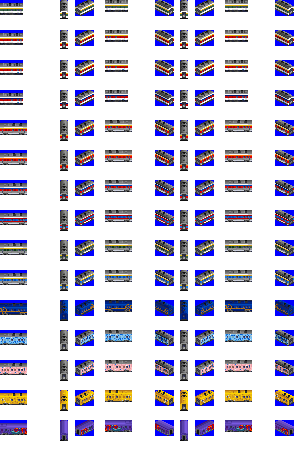
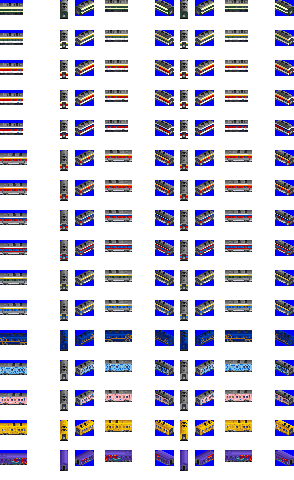
Add: Generator car - old tongil livery, closes #233

diff --git a/docs/download_page/english.html b/docs/download_page/english.html
@@ -300,7 +300,7 @@
         <td class="introduction">1927</td>
     </tr>
     <tr data-veh_id="GENERATOR_CAR">
-        <td class="refit"><div><img src="./_static/GENERATOR_CAR_TONGIL.png" alt="Generator car"><br /><img src="./_static/GENERATOR_CAR_MUGUNGHWA_YELLOW_RED.png" alt="Generator car"><br /><img src="./_static/GENERATOR_CAR_MUGUNGHWA_YELLOW_RED_K.png" alt="Generator car"><br /><img src="./_static/GENERATOR_CAR_MUGUNGHWA_BLUE_RED.png" alt="Generator car"><br /><img src="./_static/GENERATOR_CAR_LONG_YELLOW_RED.png" alt="Generator car"><br /><img src="./_static/GENERATOR_CAR_LONG_ORANGE_RED.png" alt="Generator car"><br /><img src="./_static/GENERATOR_CAR_LONG_MUGUNGHWA_BLUE_RED.png" alt="Generator car"><br /><img src="./_static/GENERATOR_CAR_LONG_SAEMAEUL_BLUE_RED.png" alt="Generator car"><br /><img src="./_static/GENERATOR_CAR_LONG_SAEMAEUL_2.png" alt="Generator car"><br /><img src="./_static/GENERATOR_CAR_LONG_SAEMAEUL_3.png" alt="Generator car"><br /><img src="./_static/GENERATOR_CAR_HAERANG.png" alt="Generator car"><br /><img src="./_static/GENERATOR_CAR_S_TRAIN_1.png" alt="Generator car"><br /><img src="./_static/GENERATOR_CAR_S_TRAIN_2.png" alt="Generator car"><br /><img src="./_static/GENERATOR_CAR_G_TRAIN.png" alt="Generator car"><br /><img src="./_static/GENERATOR_CAR_A_TRAIN.png" alt="Generator car"></div></td>
+        <td class="refit"><div><img src="./_static/GENERATOR_CAR_TONGIL_OLD.png" alt="Generator car"><br /><img src="./_static/GENERATOR_CAR_TONGIL.png" alt="Generator car"><br /><img src="./_static/GENERATOR_CAR_MUGUNGHWA_YELLOW_RED.png" alt="Generator car"><br /><img src="./_static/GENERATOR_CAR_MUGUNGHWA_YELLOW_RED_K.png" alt="Generator car"><br /><img src="./_static/GENERATOR_CAR_MUGUNGHWA_BLUE_RED.png" alt="Generator car"><br /><img src="./_static/GENERATOR_CAR_LONG_YELLOW_RED.png" alt="Generator car"><br /><img src="./_static/GENERATOR_CAR_LONG_ORANGE_RED.png" alt="Generator car"><br /><img src="./_static/GENERATOR_CAR_LONG_MUGUNGHWA_BLUE_RED.png" alt="Generator car"><br /><img src="./_static/GENERATOR_CAR_LONG_SAEMAEUL_BLUE_RED.png" alt="Generator car"><br /><img src="./_static/GENERATOR_CAR_LONG_SAEMAEUL_2.png" alt="Generator car"><br /><img src="./_static/GENERATOR_CAR_LONG_SAEMAEUL_3.png" alt="Generator car"><br /><img src="./_static/GENERATOR_CAR_HAERANG.png" alt="Generator car"><br /><img src="./_static/GENERATOR_CAR_S_TRAIN_1.png" alt="Generator car"><br /><img src="./_static/GENERATOR_CAR_S_TRAIN_2.png" alt="Generator car"><br /><img src="./_static/GENERATOR_CAR_G_TRAIN.png" alt="Generator car"><br /><img src="./_static/GENERATOR_CAR_A_TRAIN.png" alt="Generator car"></div></td>
         <td class="name">Generator car</td>
         <td class="speed">120 km/h</td>
         <td class="speed_designed">120 km/h</td>

diff --git a/docs/download_page/korean.html b/docs/download_page/korean.html
@@ -300,7 +300,7 @@
         <td class="introduction">1927</td>
     </tr>
     <tr data-veh_id="GENERATOR_CAR">
-        <td class="refit"><div><img src="./_static/GENERATOR_CAR_TONGIL.png" alt="발전차"><br /><img src="./_static/GENERATOR_CAR_MUGUNGHWA_YELLOW_RED.png" alt="발전차"><br /><img src="./_static/GENERATOR_CAR_MUGUNGHWA_YELLOW_RED_K.png" alt="발전차"><br /><img src="./_static/GENERATOR_CAR_MUGUNGHWA_BLUE_RED.png" alt="발전차"><br /><img src="./_static/GENERATOR_CAR_LONG_YELLOW_RED.png" alt="발전차"><br /><img src="./_static/GENERATOR_CAR_LONG_ORANGE_RED.png" alt="발전차"><br /><img src="./_static/GENERATOR_CAR_LONG_MUGUNGHWA_BLUE_RED.png" alt="발전차"><br /><img src="./_static/GENERATOR_CAR_LONG_SAEMAEUL_BLUE_RED.png" alt="발전차"><br /><img src="./_static/GENERATOR_CAR_LONG_SAEMAEUL_2.png" alt="발전차"><br /><img src="./_static/GENERATOR_CAR_LONG_SAEMAEUL_3.png" alt="발전차"><br /><img src="./_static/GENERATOR_CAR_HAERANG.png" alt="발전차"><br /><img src="./_static/GENERATOR_CAR_S_TRAIN_1.png" alt="발전차"><br /><img src="./_static/GENERATOR_CAR_S_TRAIN_2.png" alt="발전차"><br /><img src="./_static/GENERATOR_CAR_G_TRAIN.png" alt="발전차"><br /><img src="./_static/GENERATOR_CAR_A_TRAIN.png" alt="발전차"></div></td>
+        <td class="refit"><div><img src="./_static/GENERATOR_CAR_TONGIL_OLD.png" alt="발전차"><br /><img src="./_static/GENERATOR_CAR_TONGIL.png" alt="발전차"><br /><img src="./_static/GENERATOR_CAR_MUGUNGHWA_YELLOW_RED.png" alt="발전차"><br /><img src="./_static/GENERATOR_CAR_MUGUNGHWA_YELLOW_RED_K.png" alt="발전차"><br /><img src="./_static/GENERATOR_CAR_MUGUNGHWA_BLUE_RED.png" alt="발전차"><br /><img src="./_static/GENERATOR_CAR_LONG_YELLOW_RED.png" alt="발전차"><br /><img src="./_static/GENERATOR_CAR_LONG_ORANGE_RED.png" alt="발전차"><br /><img src="./_static/GENERATOR_CAR_LONG_MUGUNGHWA_BLUE_RED.png" alt="발전차"><br /><img src="./_static/GENERATOR_CAR_LONG_SAEMAEUL_BLUE_RED.png" alt="발전차"><br /><img src="./_static/GENERATOR_CAR_LONG_SAEMAEUL_2.png" alt="발전차"><br /><img src="./_static/GENERATOR_CAR_LONG_SAEMAEUL_3.png" alt="발전차"><br /><img src="./_static/GENERATOR_CAR_HAERANG.png" alt="발전차"><br /><img src="./_static/GENERATOR_CAR_S_TRAIN_1.png" alt="발전차"><br /><img src="./_static/GENERATOR_CAR_S_TRAIN_2.png" alt="발전차"><br /><img src="./_static/GENERATOR_CAR_G_TRAIN.png" alt="발전차"><br /><img src="./_static/GENERATOR_CAR_A_TRAIN.png" alt="발전차"></div></td>
         <td class="name">발전차</td>
         <td class="speed">120 km/h</td>
         <td class="speed_designed">120 km/h</td>

diff --git a/docs/download_page/english.md b/docs/download_page/english.md
@@ -300,7 +300,7 @@
         <td class="introduction">1927</td>
     </tr>
     <tr data-veh_id="GENERATOR_CAR">
-        <td class="refit"><div><img src="./_static/GENERATOR_CAR_TONGIL.png" alt="Generator car"><br /><img src="./_static/GENERATOR_CAR_MUGUNGHWA_YELLOW_RED.png" alt="Generator car"><br /><img src="./_static/GENERATOR_CAR_MUGUNGHWA_YELLOW_RED_K.png" alt="Generator car"><br /><img src="./_static/GENERATOR_CAR_MUGUNGHWA_BLUE_RED.png" alt="Generator car"><br /><img src="./_static/GENERATOR_CAR_LONG_YELLOW_RED.png" alt="Generator car"><br /><img src="./_static/GENERATOR_CAR_LONG_ORANGE_RED.png" alt="Generator car"><br /><img src="./_static/GENERATOR_CAR_LONG_MUGUNGHWA_BLUE_RED.png" alt="Generator car"><br /><img src="./_static/GENERATOR_CAR_LONG_SAEMAEUL_BLUE_RED.png" alt="Generator car"><br /><img src="./_static/GENERATOR_CAR_LONG_SAEMAEUL_2.png" alt="Generator car"><br /><img src="./_static/GENERATOR_CAR_LONG_SAEMAEUL_3.png" alt="Generator car"><br /><img src="./_static/GENERATOR_CAR_HAERANG.png" alt="Generator car"><br /><img src="./_static/GENERATOR_CAR_S_TRAIN_1.png" alt="Generator car"><br /><img src="./_static/GENERATOR_CAR_S_TRAIN_2.png" alt="Generator car"><br /><img src="./_static/GENERATOR_CAR_G_TRAIN.png" alt="Generator car"><br /><img src="./_static/GENERATOR_CAR_A_TRAIN.png" alt="Generator car"></div></td>
+        <td class="refit"><div><img src="./_static/GENERATOR_CAR_TONGIL_OLD.png" alt="Generator car"><br /><img src="./_static/GENERATOR_CAR_TONGIL.png" alt="Generator car"><br /><img src="./_static/GENERATOR_CAR_MUGUNGHWA_YELLOW_RED.png" alt="Generator car"><br /><img src="./_static/GENERATOR_CAR_MUGUNGHWA_YELLOW_RED_K.png" alt="Generator car"><br /><img src="./_static/GENERATOR_CAR_MUGUNGHWA_BLUE_RED.png" alt="Generator car"><br /><img src="./_static/GENERATOR_CAR_LONG_YELLOW_RED.png" alt="Generator car"><br /><img src="./_static/GENERATOR_CAR_LONG_ORANGE_RED.png" alt="Generator car"><br /><img src="./_static/GENERATOR_CAR_LONG_MUGUNGHWA_BLUE_RED.png" alt="Generator car"><br /><img src="./_static/GENERATOR_CAR_LONG_SAEMAEUL_BLUE_RED.png" alt="Generator car"><br /><img src="./_static/GENERATOR_CAR_LONG_SAEMAEUL_2.png" alt="Generator car"><br /><img src="./_static/GENERATOR_CAR_LONG_SAEMAEUL_3.png" alt="Generator car"><br /><img src="./_static/GENERATOR_CAR_HAERANG.png" alt="Generator car"><br /><img src="./_static/GENERATOR_CAR_S_TRAIN_1.png" alt="Generator car"><br /><img src="./_static/GENERATOR_CAR_S_TRAIN_2.png" alt="Generator car"><br /><img src="./_static/GENERATOR_CAR_G_TRAIN.png" alt="Generator car"><br /><img src="./_static/GENERATOR_CAR_A_TRAIN.png" alt="Generator car"></div></td>
         <td class="name">Generator car</td>
         <td class="speed">120 km/h</td>
         <td class="speed_designed">120 km/h</td>

diff --git a/docs/download_page/korean.md b/docs/download_page/korean.md
@@ -300,7 +300,7 @@
         <td class="introduction">1927</td>
     </tr>
     <tr data-veh_id="GENERATOR_CAR">
-        <td class="refit"><div><img src="./_static/GENERATOR_CAR_TONGIL.png" alt="발전차"><br /><img src="./_static/GENERATOR_CAR_MUGUNGHWA_YELLOW_RED.png" alt="발전차"><br /><img src="./_static/GENERATOR_CAR_MUGUNGHWA_YELLOW_RED_K.png" alt="발전차"><br /><img src="./_static/GENERATOR_CAR_MUGUNGHWA_BLUE_RED.png" alt="발전차"><br /><img src="./_static/GENERATOR_CAR_LONG_YELLOW_RED.png" alt="발전차"><br /><img src="./_static/GENERATOR_CAR_LONG_ORANGE_RED.png" alt="발전차"><br /><img src="./_static/GENERATOR_CAR_LONG_MUGUNGHWA_BLUE_RED.png" alt="발전차"><br /><img src="./_static/GENERATOR_CAR_LONG_SAEMAEUL_BLUE_RED.png" alt="발전차"><br /><img src="./_static/GENERATOR_CAR_LONG_SAEMAEUL_2.png" alt="발전차"><br /><img src="./_static/GENERATOR_CAR_LONG_SAEMAEUL_3.png" alt="발전차"><br /><img src="./_static/GENERATOR_CAR_HAERANG.png" alt="발전차"><br /><img src="./_static/GENERATOR_CAR_S_TRAIN_1.png" alt="발전차"><br /><img src="./_static/GENERATOR_CAR_S_TRAIN_2.png" alt="발전차"><br /><img src="./_static/GENERATOR_CAR_G_TRAIN.png" alt="발전차"><br /><img src="./_static/GENERATOR_CAR_A_TRAIN.png" alt="발전차"></div></td>
+        <td class="refit"><div><img src="./_static/GENERATOR_CAR_TONGIL_OLD.png" alt="발전차"><br /><img src="./_static/GENERATOR_CAR_TONGIL.png" alt="발전차"><br /><img src="./_static/GENERATOR_CAR_MUGUNGHWA_YELLOW_RED.png" alt="발전차"><br /><img src="./_static/GENERATOR_CAR_MUGUNGHWA_YELLOW_RED_K.png" alt="발전차"><br /><img src="./_static/GENERATOR_CAR_MUGUNGHWA_BLUE_RED.png" alt="발전차"><br /><img src="./_static/GENERATOR_CAR_LONG_YELLOW_RED.png" alt="발전차"><br /><img src="./_static/GENERATOR_CAR_LONG_ORANGE_RED.png" alt="발전차"><br /><img src="./_static/GENERATOR_CAR_LONG_MUGUNGHWA_BLUE_RED.png" alt="발전차"><br /><img src="./_static/GENERATOR_CAR_LONG_SAEMAEUL_BLUE_RED.png" alt="발전차"><br /><img src="./_static/GENERATOR_CAR_LONG_SAEMAEUL_2.png" alt="발전차"><br /><img src="./_static/GENERATOR_CAR_LONG_SAEMAEUL_3.png" alt="발전차"><br /><img src="./_static/GENERATOR_CAR_HAERANG.png" alt="발전차"><br /><img src="./_static/GENERATOR_CAR_S_TRAIN_1.png" alt="발전차"><br /><img src="./_static/GENERATOR_CAR_S_TRAIN_2.png" alt="발전차"><br /><img src="./_static/GENERATOR_CAR_G_TRAIN.png" alt="발전차"><br /><img src="./_static/GENERATOR_CAR_A_TRAIN.png" alt="발전차"></div></td>
         <td class="name">발전차</td>
         <td class="speed">120 km/h</td>
         <td class="speed_designed">120 km/h</td>

diff --git a/docs/changelog.md b/docs/changelog.md
@@ -8,6 +8,7 @@
    * 추가: 협궤 무개화차 [#217]
  * 추가: 아한대·아열대 지형의 경전철/협궤 선로의 터널 그래픽 [#66]
  * 추가: 새마을호 구형 발전차(빨강 + 파랑) 도색 추가 [#232]
+ * 추가: 통일호 구형 발전차 도색 추가 [#233]
  * 변경: 2x00호대 미군 도색 및 검정+넓은 주황 도색 추가 [#90]
  * 변경: 발전차의 길이를 6/8 또는 7/8 수준으로 축소 [#117]
  * 변경: 새마을호 디젤 유압 동차(DHC, PP동차) 그래픽 개선 [#187]
